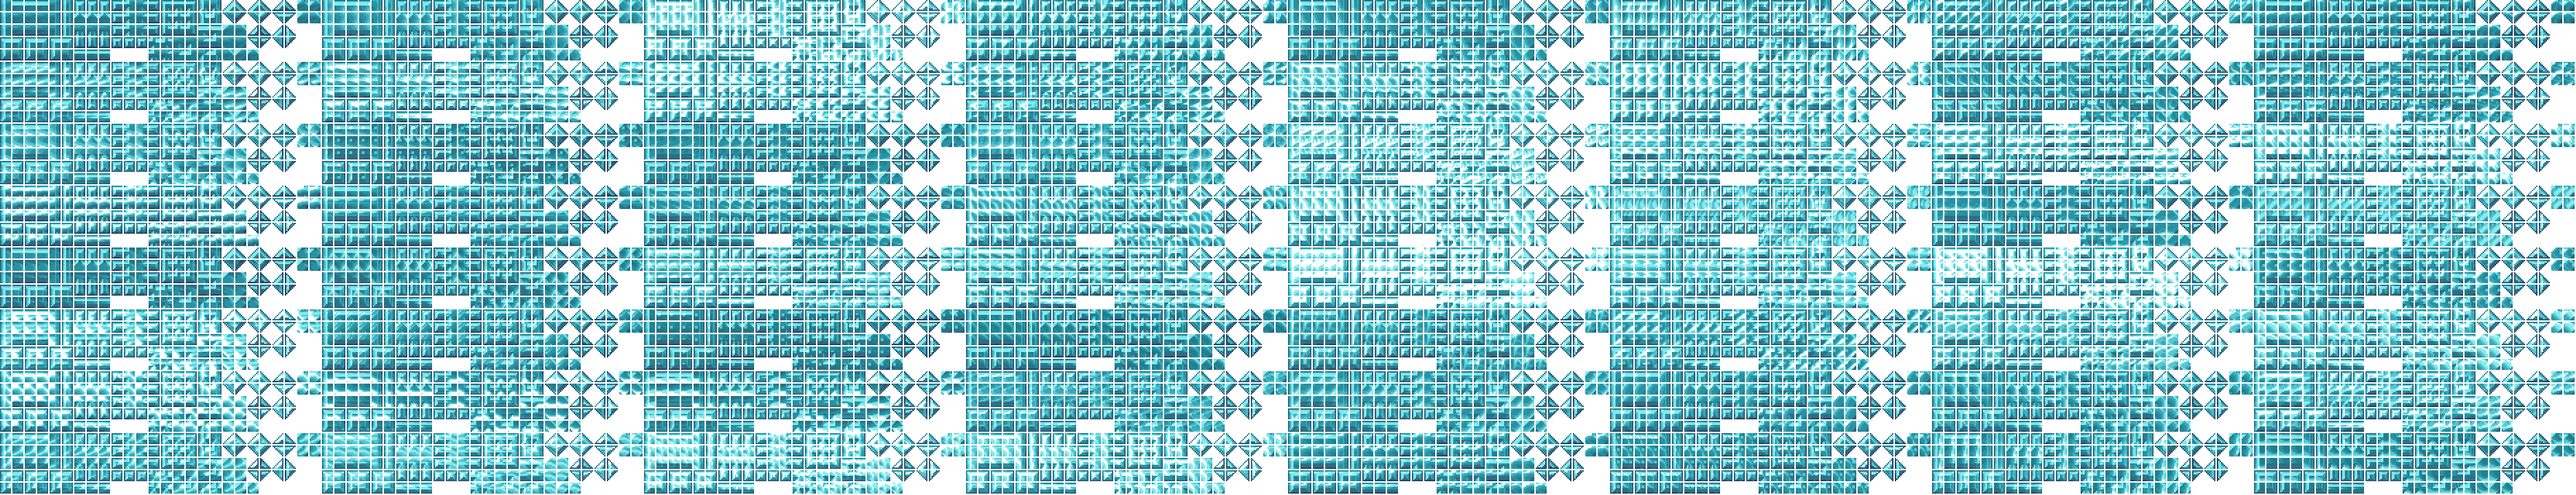
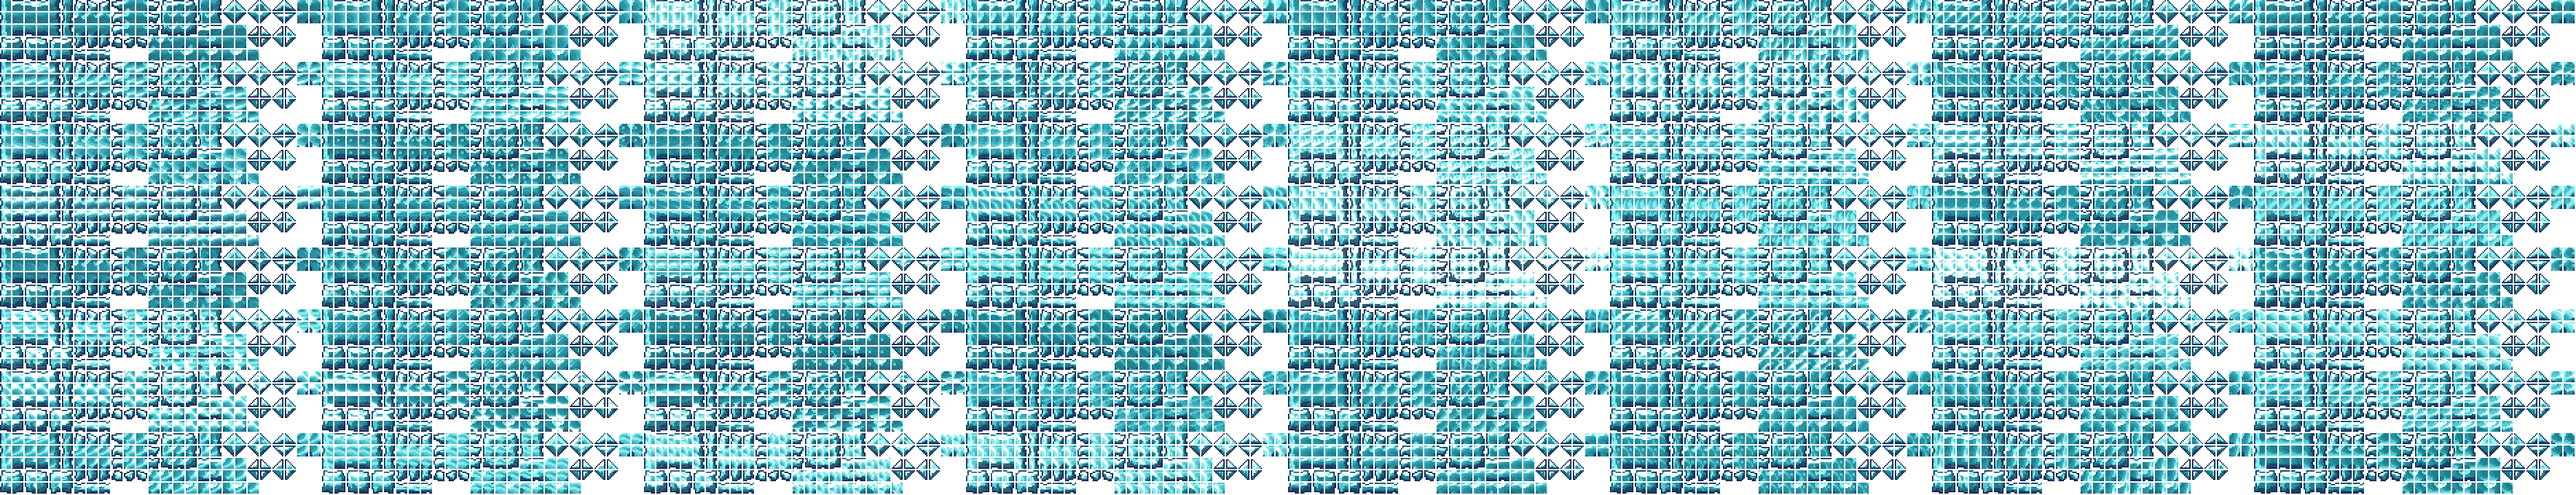
Some changes

diff --git a/Tiles/SunkenSea/Runestone.cs b/Tiles/SunkenSea/Runestone.cs
@@ -31,7 +31,9 @@ namespace CalamityMod.Tiles.SunkenSea
             // TileFraming.SetUpUniversalMerge(Type, ModContent.TileType<RuneSand>(), out tileAdjacency);
             // 02JUN2024: Ozzatron: Shellstone has no merge tile sheet defined
             // TileFraming.SetUpUniversalMerge(Type, ModContent.TileType<Shellstone>(), out secondTileAdjacency);
-
+            this.RegisterUniversalMerge(TileID.Sandstone, "CalamityMod/Tiles/Merges/SandstoneMerge");
+            this.RegisterUniversalMerge(TileID.Sand, "CalamityMod/Tiles/Merges/SandMerge");
+            this.RegisterUniversalMerge(TileID.HardenedSand, "CalamityMod/Tiles/Merges/HardenedSandMerge");
             this.RegisterUniversalMerge(ModContent.TileType<EutrophicSand>(), "CalamityMod/Tiles/Merges/EutrophicSandMerge");
             this.RegisterUniversalMerge(ModContent.TileType<Navystone>(), "CalamityMod/Tiles/Merges/NavystoneMerge");
         }

diff --git a/Tiles/SunkenSea/Shellstone.cs b/Tiles/SunkenSea/Shellstone.cs
@@ -26,7 +26,8 @@ namespace CalamityMod.Tiles.SunkenSea
 
             // 02JUN2024: Ozzatron: RuneSand has no merge
             // TileFraming.SetUpUniversalMerge(Type, ModContent.TileType<RuneSand>(), out tileAdjacency);
-
+            this.RegisterUniversalMerge(ModContent.TileType<EutrophicSand>(), "CalamityMod/Tiles/Merges/EutrophicSandMerge");
+            this.RegisterUniversalMerge(ModContent.TileType<Navystone>(), "CalamityMod/Tiles/Merges/NavystoneMerge");
             this.RegisterUniversalMerge(TileID.Sandstone, "CalamityMod/Tiles/Merges/SandstoneMerge");
             this.RegisterUniversalMerge(TileID.Sand, "CalamityMod/Tiles/Merges/SandMerge");
             this.RegisterUniversalMerge(TileID.HardenedSand, "CalamityMod/Tiles/Merges/HardenedSandMerge");

diff --git a/Tiles/SunkenSea/PolypSand.cs b/Tiles/SunkenSea/PolypSand.cs
@@ -21,7 +21,7 @@ namespace CalamityMod.Tiles.SunkenSea
             TileID.Sets.GeneralPlacementTiles[Type] = false;
 
             Main.tileSolid[Type] = true;
-            Main.tileBlockLight[Type] = true;
+            Main.tileBlockLight[Type] = false;
 
             CalamityUtils.MergeWithGeneral(Type);
             CalamityUtils.MergeWithDesert(Type);
@@ -29,7 +29,6 @@ namespace CalamityMod.Tiles.SunkenSea
             TileID.Sets.HasSlopeFrames[Type] = true;
             TileID.Sets.ChecksForMerge[Type] = true;
             TileID.Sets.CanBeDugByShovel[Type] = true;
-            Main.tileShine2[Type] = true;
 
             DustType = 147;
             AddMapEntry(new Color(221, 180, 182));
